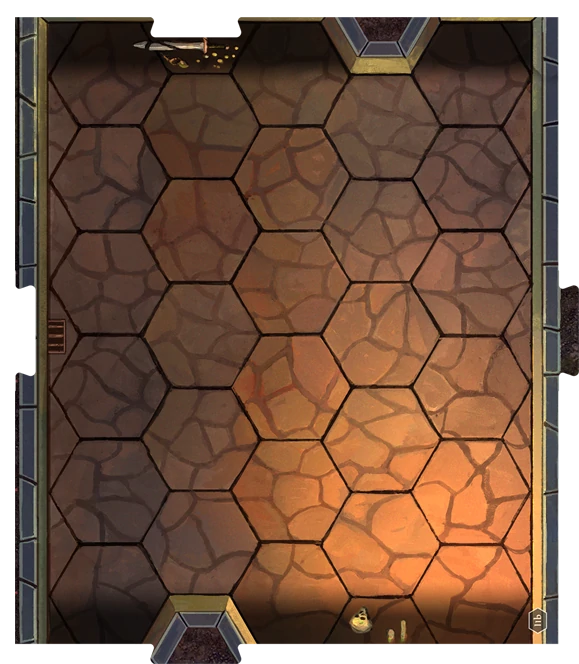
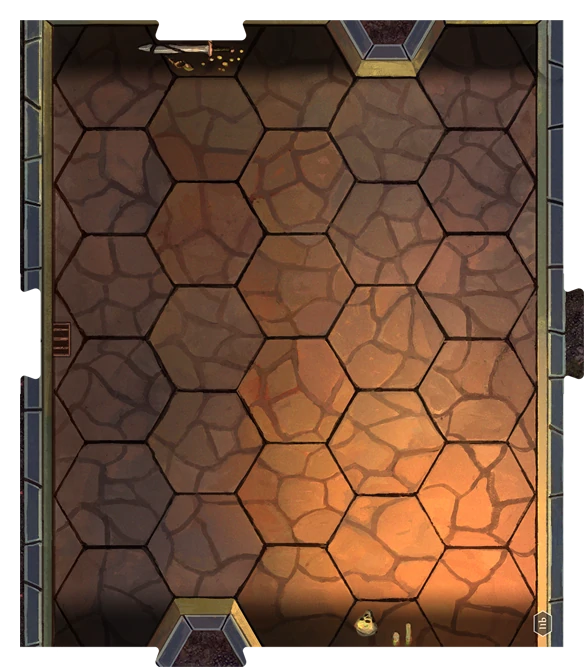
Add the rest of pieces

diff --git a/src/lib/editor2/editor2.pieces.js b/src/lib/editor2/editor2.pieces.js
@@ -1,5 +1,4 @@
 import bitmap_door from '../../scenarios/door.webp'
-
 import bitmap_A1a  from '../../scenarios/A1a.webp'
 import bitmap_A1b  from '../../scenarios/A1b.webp'
 import bitmap_A2a  from '../../scenarios/A2a.webp'
@@ -8,7 +7,6 @@ import bitmap_A3a  from '../../scenarios/A3a.webp'
 import bitmap_A3b  from '../../scenarios/A3b.webp'
 import bitmap_A4a  from '../../scenarios/A4a.webp'
 import bitmap_A4b  from '../../scenarios/A4b.webp'
-
 import bitmap_B1a  from '../../scenarios/B1a.webp'
 import bitmap_B1b  from '../../scenarios/B1b.webp'
 import bitmap_B2a  from '../../scenarios/B2a.webp'
@@ -17,38 +15,50 @@ import bitmap_B3a  from '../../scenarios/B3a.webp'
 import bitmap_B3b  from '../../scenarios/B3b.webp'
 import bitmap_B4a  from '../../scenarios/B4a.webp'
 import bitmap_B4b  from '../../scenarios/B4b.webp'
-
 import bitmap_C1a  from '../../scenarios/C1a.webp'
 import bitmap_C1b  from '../../scenarios/C1b.webp'
 import bitmap_C2a  from '../../scenarios/C2a.webp'
 import bitmap_C2b  from '../../scenarios/C2b.webp'
-
 import bitmap_D1a  from '../../scenarios/D1a.webp'
 import bitmap_D1b  from '../../scenarios/D1b.webp'
 import bitmap_D2a  from '../../scenarios/D2a.webp'
 import bitmap_D2b  from '../../scenarios/D2b.webp'
-
 import bitmap_E1a  from '../../scenarios/E1a.webp'
 import bitmap_E1b  from '../../scenarios/E1b.webp'
-
 import bitmap_F1a  from '../../scenarios/F1a.webp'
 import bitmap_F1b  from '../../scenarios/F1b.webp'
-
 import bitmap_G1a  from '../../scenarios/G1a.webp'
 import bitmap_G1b  from '../../scenarios/G1b.webp'
 import bitmap_G2a  from '../../scenarios/G2a.webp'
 import bitmap_G2b  from '../../scenarios/G2b.webp'
-
 import bitmap_H1a  from '../../scenarios/H1a.webp'
 import bitmap_H1b  from '../../scenarios/H1b.webp'
 import bitmap_H2a  from '../../scenarios/H2a.webp'
 import bitmap_H2b  from '../../scenarios/H2b.webp'
 import bitmap_H3a  from '../../scenarios/H3a.webp'
 import bitmap_H3b  from '../../scenarios/H3b.webp'
-
+import bitmap_I1a  from '../../scenarios/I1a.webp'
 import bitmap_I1b  from '../../scenarios/I1b.webp'
+import bitmap_I2a  from '../../scenarios/I2a.webp'
+import bitmap_I2b  from '../../scenarios/I2b.webp'
 import bitmap_J1a  from '../../scenarios/J1a.webp'
+import bitmap_J1b  from '../../scenarios/J1b.webp'
+import bitmap_J2a  from '../../scenarios/J2a.webp'
+import bitmap_J2b  from '../../scenarios/J2b.webp'
+import bitmap_K1a  from '../../scenarios/K1a.webp'
+import bitmap_K1b  from '../../scenarios/K1b.webp'
+import bitmap_K2a  from '../../scenarios/K2a.webp'
+import bitmap_K2b  from '../../scenarios/K2b.webp'
 import bitmap_L1a  from '../../scenarios/L1a.webp'
+import bitmap_L1b  from '../../scenarios/L1b.webp'
+import bitmap_L2a  from '../../scenarios/L2a.webp'
+import bitmap_L2b  from '../../scenarios/L2b.webp'
+import bitmap_L3a  from '../../scenarios/L3a.webp'
+import bitmap_L3b  from '../../scenarios/L3b.webp'
+import bitmap_M1a  from '../../scenarios/M1a.webp'
+import bitmap_M1b  from '../../scenarios/M1b.webp'
+import bitmap_N1a  from '../../scenarios/N1a.webp'
+import bitmap_N1b  from '../../scenarios/N1b.webp'
 
 
 const blueprints_A = {
@@ -121,6 +131,74 @@ const styles_H = {
   180: {top: 27}
 }
 
+const blueprints_I = {
+  0: 'afaeafaeaf.1ae1f3ae3f5ae5f'
+  // 60: 'ddcecgbfbfaecedd.1dc2ec3gc6af7cf8df',
+  // 120: 'ddbdaeaebfbfcecc.1dd2bd3ad6fa7ea8ca'
+}
+
+const styles_I = {
+  0: {left: -51, top: -22},
+  // 60: {left: 76, top: 47},
+  // 120: {left: 75, top: -5},
+  180: {left: -53, top: -23}
+}
+
+const blueprints_Ja = {
+  0: 'aeafagegfhfhgg.1ae1ec2fc3ae6ha7ga',
+  180: 'ccacbdbdcichei.1cd2ad5i6cf7ef7i'
+}
+
+const styles_Ja = {
+  180: {left: -32, top: -3}
+}
+
+const blueprints_Jb = {
+  0: 'ggfhfhegagafae.1gc2hc5ae6fa7ae7ea',
+  180: 'eichcibdbdaccc.1ed1i2cd3i6af7cf'
+}
+
+const styles_Jb = {
+  0: {left: -33},
+  180: {left: -53, top: -5}
+}
+
+const blueprints_K = {
+  0: 'cfbfbgacegacfhabfg',
+  180: 'bcghacfhbdfhbgcgcf',
+}
+
+const styles_K = {
+  0: {left: -33, top: -57},
+  180: {left: -30, top: -3}
+}
+
+const blueprints_L = {
+  0: 'aeadaeadaeadae.1ae1e3ae3e5ae5e7ae7e'
+}
+
+const styles_L = {
+  0: {top: -22}
+}
+
+const blueprints_M = {
+  0: 'beaeafaeafaebe.3ae3f5ae5f'
+}
+
+const styles_M = {
+  0: {top: -5},
+  180: {left: -53, top: -2}
+}
+
+const blueprints_N = {
+  0: 'ahagahagahagah.1ae1h3ae3h5ae5h7ae7h'
+}
+
+const styles_N = {
+  0: {left: -52, top: -22},
+  180: {left: -52, top: -24}
+}
+
 export const pieceList = {
   door: {
     bitmap: bitmap_door,
@@ -132,8 +210,6 @@ export const pieceList = {
     },
     symmetrical: true
   },
-
-  // -------- A --------
 
   A1a: {
     bitmap: bitmap_A1a,
@@ -183,8 +259,6 @@ export const pieceList = {
     styles: styles_A
   },
 
-  // -------- B --------
-
   B1a: {
     bitmap: bitmap_B1a,
     blueprints: blueprints_B,
@@ -233,8 +307,6 @@ export const pieceList = {
     styles: styles_B
   },
 
-  // -------- C --------
-
   C1a: {
     bitmap: bitmap_C1a,
     blueprints: blueprints_C,
@@ -258,8 +330,6 @@ export const pieceList = {
     blueprints: blueprints_C,
     styles: styles_C
   },
-
-  // -------- D --------
 
   D1a: {
     bitmap: bitmap_D1a,
@@ -289,8 +359,6 @@ export const pieceList = {
     symmetrical: true
   },
 
-  // -------- E --------
-
   E1a: {
     bitmap: bitmap_E1a,
     blueprints: blueprints_E,
@@ -305,8 +373,6 @@ export const pieceList = {
     symmetrical: true
   },
 
-  // -------- F --------
-
   F1a: {
     bitmap: bitmap_F1a,
     blueprints: blueprints_F,
@@ -320,8 +386,6 @@ export const pieceList = {
     styles: styles_F,
     symmetrical: true
   },
-
-  // -------- G --------
 
   G1a: {
     bitmap: bitmap_G1a,
@@ -346,8 +410,6 @@ export const pieceList = {
     blueprints: blueprints_G,
     symmetrical: true
   },
-
-  // -------- H --------
 
   H1a: {
     bitmap: bitmap_H1a,
@@ -385,42 +447,152 @@ export const pieceList = {
     styles: styles_H
   },
 
-  // -------- other --------
+  I1a: {
+    bitmap: bitmap_I1a,
+    blueprints: blueprints_I,
+    styles: styles_I,
+    symmetrical: true
+  },
 
   I1b: {
     bitmap: bitmap_I1b,
-    blueprints: {
-      0: 'afaeafaeaf.1ae1f3ae3f5ae5f',
-      60: 'ddcecgbfbfaecedd.1dc2ec3gc6af7cf8df',
-      120: 'ddbdaeaebfbfcecc.1dd2bd3ad6fa7ea8ca'
-    },
+    blueprints: blueprints_I,
     styles: {
-      60: {left: 76, top: 47},
-      120: {left: 75, top: -5},
-      180: {left: -48, top: -20}
+      0: {left: -56, top: -27},
+      180: {left: -47, top: -18}
     },
+    symmetrical: true
+  },
+
+  I2a: {
+    bitmap: bitmap_I2a,
+    blueprints: blueprints_I,
+    styles: styles_I,
+    symmetrical: true
+  },
+
+  I2b: {
+    bitmap: bitmap_I2b,
+    blueprints: blueprints_I,
+    styles: styles_I,
     symmetrical: true
   },
 
   J1a: {
     bitmap: bitmap_J1a,
-    blueprints: {
-      0: 'aeafagegfhfhgg.1ae1ec2fc3ae6ha7ga',
-      180: 'ccacbdbdcichei.1cd2ad5i6cf7ef7i'
-    },
-    styles: {
-      180: {left: -32, top: -3}
-    }
+    blueprints: blueprints_Ja,
+    styles: styles_Ja
+  },
+
+  J1b: {
+    bitmap: bitmap_J1b,
+    blueprints: blueprints_Jb,
+    styles: styles_Jb
+  },
+
+  J2a: {
+    bitmap: bitmap_J2a,
+    blueprints: blueprints_Ja,
+    styles: styles_Ja
+  },
+
+  J2b: {
+    bitmap: bitmap_J2b,
+    blueprints: blueprints_Jb,
+    styles: styles_Jb
+  },
+
+  K1a: {
+    bitmap: bitmap_K1a,
+    blueprints: blueprints_K,
+    styles: styles_K
+  },
+
+  K1b: {
+    bitmap: bitmap_K1b,
+    blueprints: blueprints_K,
+    styles: styles_K
+  },
+
+  K2a: {
+    bitmap: bitmap_K2a,
+    blueprints: blueprints_K,
+    styles: styles_K
+  },
+
+  K2b: {
+    bitmap: bitmap_K2b,
+    blueprints: blueprints_K,
+    styles: styles_K
   },
 
   L1a: {
     bitmap: bitmap_L1a,
-    blueprints: {
-      0: 'aeadaeadaeadae.1ae1e3ae3e5ae5e7ae7e'
-    },
-    styles: {
-      180: {left: -51, top: -23}
-    },
+    blueprints: blueprints_L,
+    styles: styles_L,
+    symmetrical: true
+  },
+
+  L1b: {
+    bitmap: bitmap_L1b,
+    blueprints: blueprints_L,
+    styles: styles_L,
+    symmetrical: true
+  },
+
+  L2a: {
+    bitmap: bitmap_L2a,
+    blueprints: blueprints_L,
+    styles: styles_L,
+    symmetrical: true
+  },
+
+  L2b: {
+    bitmap: bitmap_L2b,
+    blueprints: blueprints_L,
+    styles: styles_L,
+    symmetrical: true
+  },
+
+  L3a: {
+    bitmap: bitmap_L3a,
+    blueprints: blueprints_L,
+    styles: styles_L,
+    symmetrical: true
+  },
+
+  L3b: {
+    bitmap: bitmap_L3b,
+    blueprints: blueprints_L,
+    styles: styles_L,
+    symmetrical: true
+  },
+
+  M1a: {
+    bitmap: bitmap_M1a,
+    blueprints: blueprints_M,
+    styles: styles_M,
+    symmetrical: true
+  },
+
+  M1b: {
+    bitmap: bitmap_M1b,
+    blueprints: blueprints_M,
+    styles: styles_M,
+    symmetrical: true
+  },
+
+  N1a: {
+    bitmap: bitmap_N1a,
+    blueprints: blueprints_N,
+    styles: styles_N,
+    symmetrical: true
+  },
+
+  N1b: {
+    bitmap: bitmap_N1b,
+    blueprints: blueprints_N,
+    styles: styles_N,
     symmetrical: true
   }
 }
